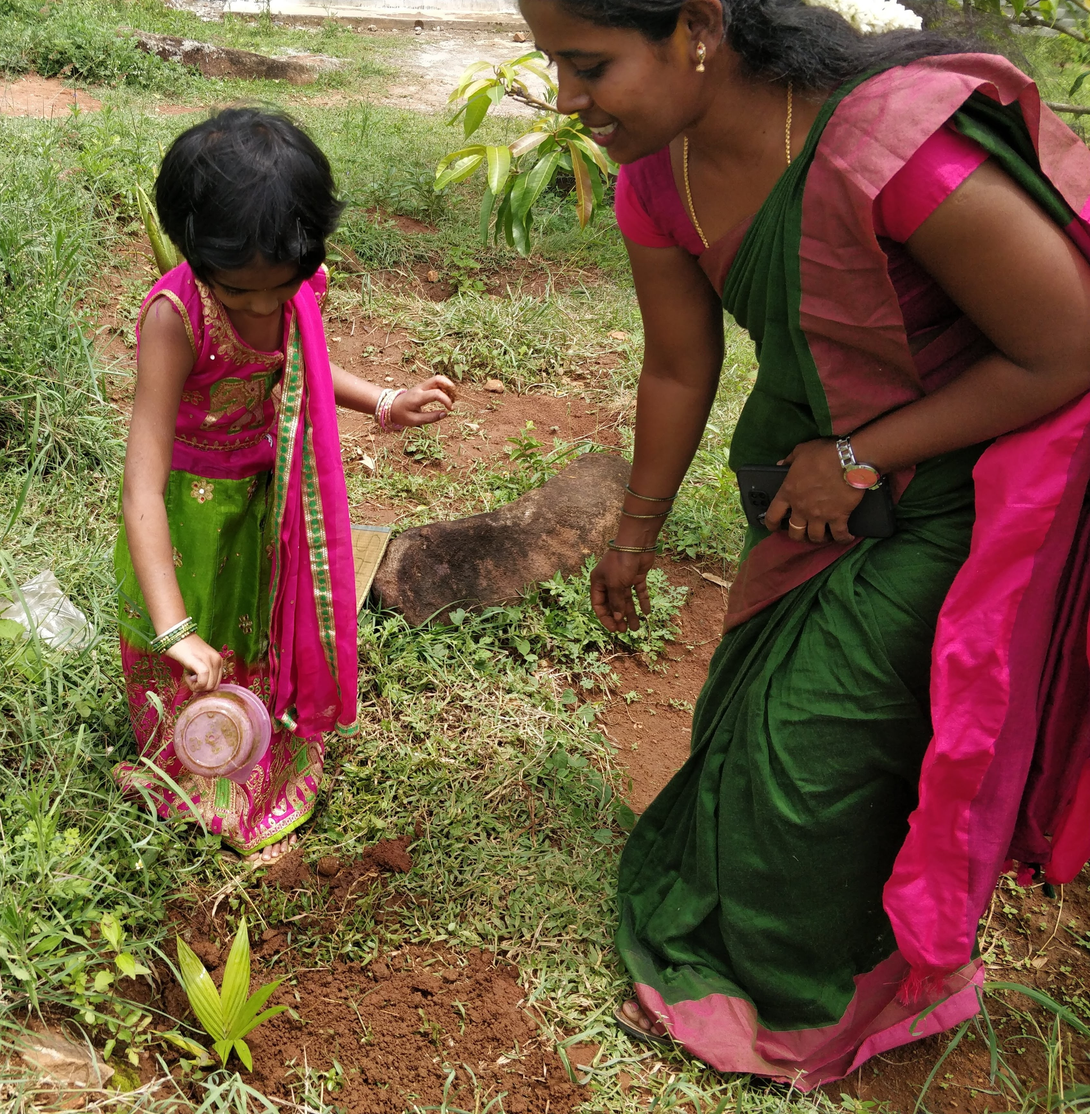
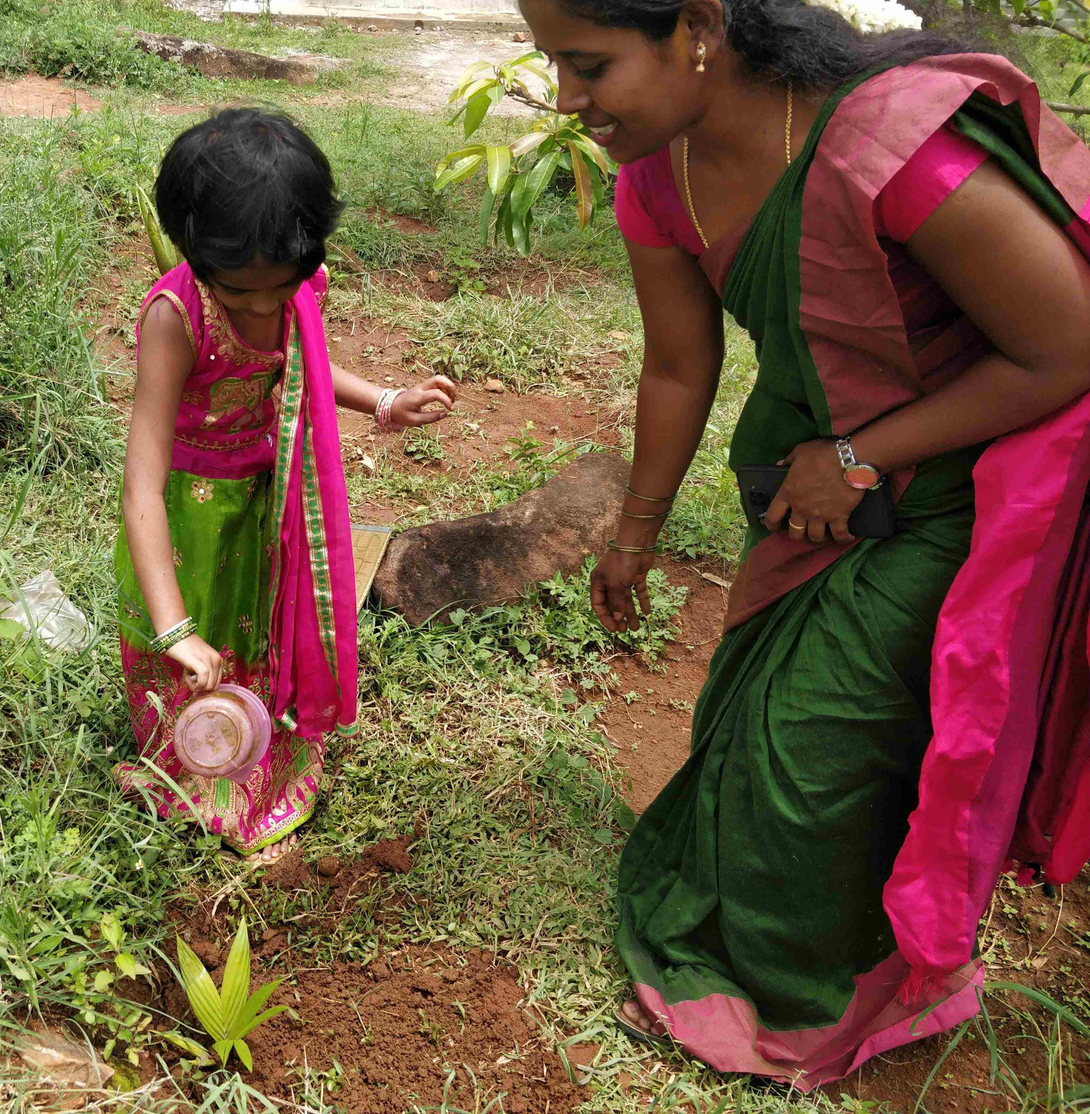
start of contact page

diff --git a/contact.html b/contact.html
@@ -1,0 +1,76 @@
+<!DOCTYPE html>
+<html lang="en">
+  <head>
+    <meta charset="UTF-8" />
+    <meta name="viewport" content="width=device-width, initial-scale=1.0" />
+    <title>Contact - Praxis Learning Centre</title>
+    <script
+      src="https://kit.fontawesome.com/5da7f1b67b.js"
+      crossorigin="anonymous"
+    ></script>
+    <link rel="stylesheet" href="./styles/styles.css" />
+    <script
+      src="https://code.jquery.com/jquery-3.7.1.min.js"
+      integrity="sha256-/JqT3SQfawRcv/BIHPThkBvs0OEvtFFmqPF/lYI/Cxo="
+      crossorigin="anonymous"
+    ></script>
+  </head>
+  <body>
+    <nav>
+      <img src="./img/praxis-logo.png" alt="Praxis Logo" />
+      <div class="navigation">
+        <ul>
+          <i id="menu-close" class="fa-solid fa-xmark"></i>
+          <li><a href="./index.html">Home</a></li>
+          <li><a href="./about.html">About</a></li>
+          <li><a href="./articles.html">Articles</a></li>
+          <li><a class="active" href="./contact.html">Contact</a></li>
+        </ul>
+        <i id="menu-btn" class="fa-solid fa-bars"></i>
+      </div>
+    </nav>
+    <section id="contact-home">
+      <h2>Contact Us</h2>
+    </section>
+
+    <section id="contact">
+      <div class="getin">
+        <h2>Get In Touch</h2>
+        <p>For admission and other enquiries</p>
+        <div class="getin-details">
+          <h3>Office</h3>
+          <div>
+            <i class="fa-solid fa-house"></i>
+            <p>Somasagara, Karnataka 562111. India</p>
+          </div>
+          <h3>Phone</h3>
+          <div>
+            <i class="fa-solid fa-phone"></i>
+            <p>+91 9448386968</p>
+          </div>
+
+          <h3>Email</h3>
+          <div>
+            <i class="fa-solid fa-envelope"></i>
+            <p>alextuscano@gmail.com</p>
+          </div>
+        </div>
+      </div>
+      <div class="form"></div>
+    </section>
+
+    <footer>
+      <div class="copyright">
+        <p>Copyright &copy;2024 Praxis Learning Centre</p>
+      </div>
+    </footer>
+    <script>
+      $("#menu-btn").click(function () {
+        $("nav .navigation ul").addClass("active");
+      });
+      $("#menu-close").click(function () {
+        $("nav .navigation ul").removeClass("active");
+      });
+    </script>
+  </body>
+</html>

diff --git a/styles/styles.css b/styles/styles.css
@@ -1,4 +1,4 @@
-@import url("https://fonts.googleapis.com/css2?family=Poppins&display=swap");
+@import url("https://fonts.googleapis.com/css2?family=Poppins:wght@400;500;600;700;800&display=swap");
 
 * {
   margin: 0;
@@ -320,6 +320,62 @@ footer p {
 #mission-container .mission-text .mission-fe .fe-text h5 {
   font-size: 16px;
   color: #29303b;
+}
+
+/* Contact Page Styles */
+
+#contact-home {
+  background-image: linear-gradient(rgba(9, 5, 54, 0.3), rgba(5, 4, 46, 0.7)),
+    url("../img/contact.jpg");
+  width: 100%;
+  height: 60vh;
+  background-size: cover;
+  background-position: center;
+  display: flex;
+  flex-direction: column;
+  justify-content: center;
+  align-items: center;
+  text-align: center;
+  padding-top: 40px;
+}
+
+#contact-home h2 {
+  color: #fff;
+  font-size: 2.2rem;
+  letter-spacing: 1px;
+}
+
+#contact {
+  padding: 8vw;
+}
+
+#contact .getin {
+  width: 350px;
+}
+
+#contact .getin h2 {
+  color: #2c234d;
+  font-size: 30px;
+  font-weight: 800;
+  line-height: 0.8;
+  margin-bottom: 16px;
+}
+
+#contact .getin p {
+  color: #686875;
+
+  line-height: 24px;
+  margin-bottom: 33px;
+  padding-bottom: 25px;
+  border-bottom: 1px solid #e5e4ed;
+}
+
+#contact .getin h3 {
+  color: #2c234d;
+  font-size: 16px;
+  font-weight: 600;
+  line-height: 26px;
+  margin-bottom: 15px;
 }
 
 @media screen and (max-width: 769px) {

diff --git a/about.html b/about.html
@@ -23,7 +23,7 @@
           <i id="menu-close" class="fa-solid fa-xmark"></i>
           <li><a href="./index.html">Home</a></li>
           <li><a class="active" href="./about.html">About</a></li>
-          <li><a href="./rules.html">Rules & Policy</a></li>
+          <li><a href="./articles.html">Articles</a></li>
           <li><a href="./contact.html">Contact</a></li>
         </ul>
         <i id="menu-btn" class="fa-solid fa-bars"></i>

diff --git a/index.html b/index.html
@@ -23,7 +23,7 @@
           <i id="menu-close" class="fa-solid fa-xmark"></i>
           <li><a class="active" href="./index.html">Home</a></li>
           <li><a href="./about.html">About</a></li>
-          <li><a href="./rules.html">Rules & Policy</a></li>
+          <li><a href="./articles.html">Articles</a></li>
           <li><a href="./contact.html">Contact</a></li>
         </ul>
         <i id="menu-btn" class="fa-solid fa-bars"></i>
